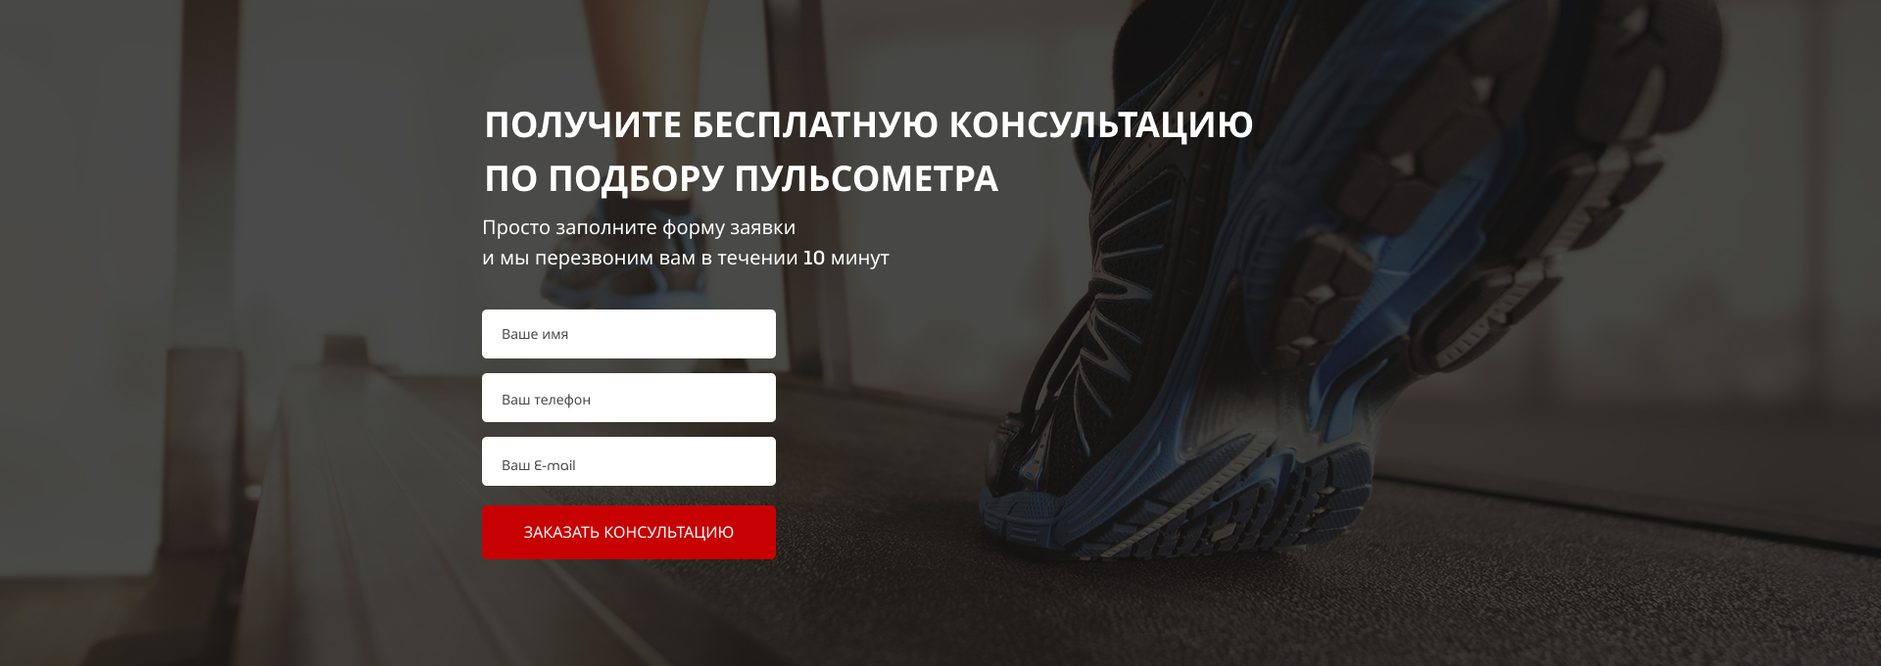
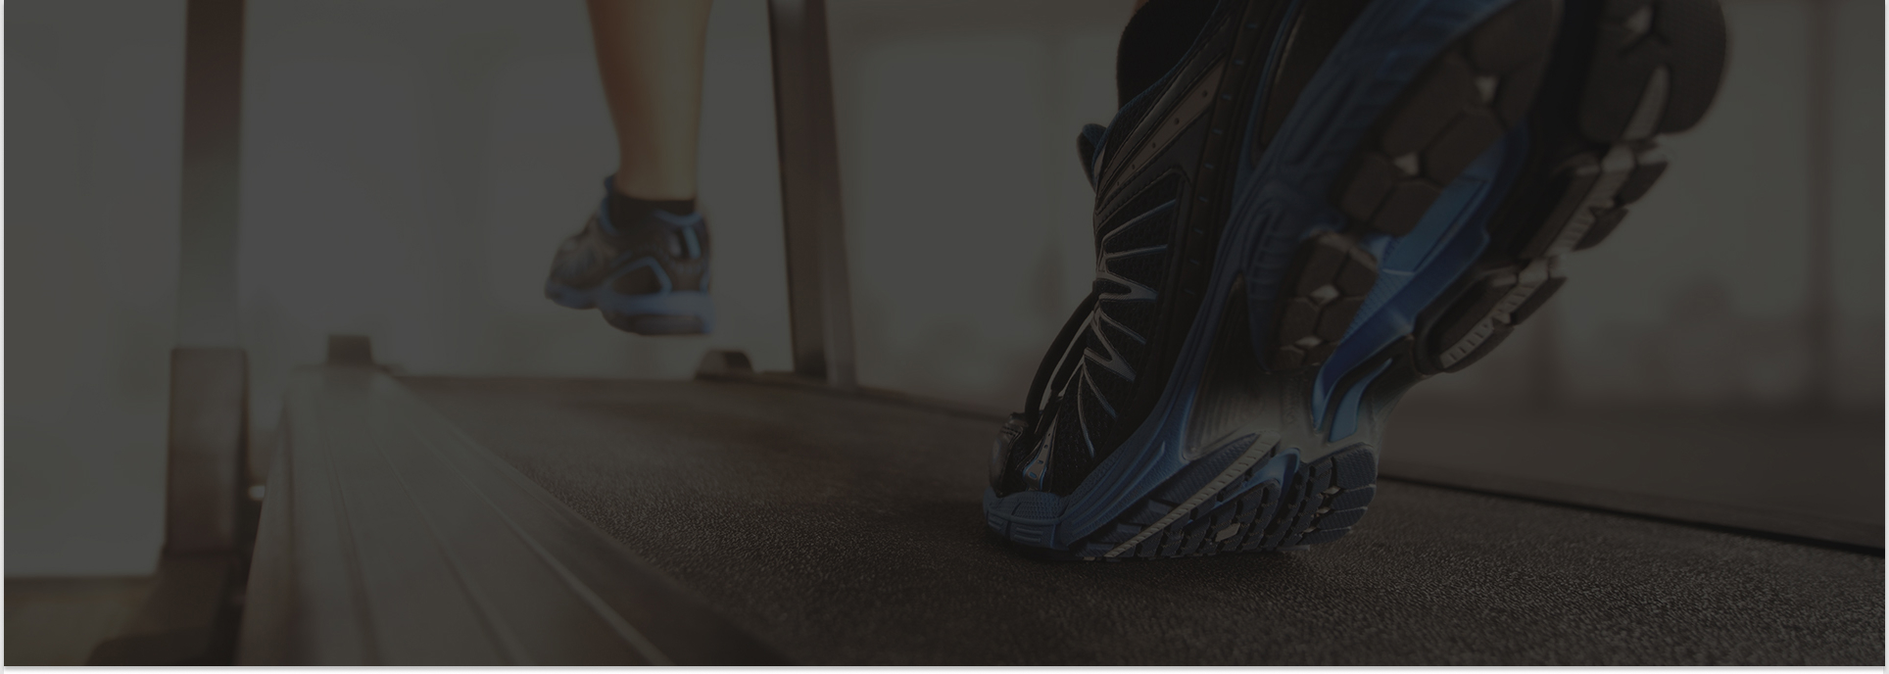
add consultation

diff --git a/src/css/style.min.css b/src/css/style.min.css
@@ -1,1 +1,1 @@
-*{font-family:"Museo Sans Cyrl",sans-serif}.container{max-width:950px;margin:0 auto}@media(max-width: 991px){.container{max-width:750px;margin:0 auto}}.promo{min-height:650px;padding:21px 0 93px 0;background:url(../img/main.jpg) center center/cover no-repeat}.promo__wrapper{display:flex;flex-direction:column;align-items:flex-end;margin-right:10px;margin-top:97px}.promo__header{color:#fff;text-align:right;font-size:42px;font-style:normal;font-weight:700;line-height:42px;text-transform:uppercase}.promo__subheader{padding-top:17px;color:#fff;text-align:right;font-size:24px;font-style:normal;font-weight:500;line-height:24px;text-transform:uppercase}.promo__icons{display:flex;width:424px;margin-top:60px;align-items:center;justify-content:space-between}.promo__icon{width:106px;text-align:center;color:#fff;font-size:14px;font-weight:500}.promo__icon img{display:block;margin:0 auto;margin-bottom:20px}.promo__link{margin-top:18px;color:#fff;font-size:16px;font-weight:500}.promo__link a{color:#fff;text-decoration-line:underline;text-transform:uppercase}@media(max-width: 991px){.promo{min-height:500px;padding:21px 0 63px 0}.promo__wrapper{margin-top:50px}.promo__header{font-size:30px;line-height:30px}.promo__subheader{padding-top:12px;font-size:18px;line-height:18px}.promo__icons{margin-top:40px}}@media(max-width: 767px){.promo{min-height:400px;padding:15px 0 23px 0}.promo__wrapper{margin-top:20px}.promo__header{font-size:30px;line-height:30px}.promo__subheader{padding-top:12px;font-size:18px;line-height:18px}.promo__icons{margin-top:20px;width:350px}.promo__icon img{margin-bottom:10px}}@media(max-width: 575px){.promo{min-height:300px;padding:15px 0 15px 0}.promo__wrapper{margin-top:30px}.promo__header{font-size:20px;line-height:20px;text-align:center}.promo__subheader{padding-top:12px;font-size:14px;line-height:14px}.promo__icons{display:none}.promo__link{margin-top:14px;font-size:14px}}.header{display:flex;justify-content:space-between;align-items:center}.header__logo{width:250px}.header__logo img{width:100%}.header__official{color:#fff;text-align:center;font-family:MuseoModerno;font-size:12px;font-weight:500;line-height:12px;text-align:center}.header__official span{padding-top:8px;display:block;font-size:18px}.header__phone{display:block;color:#fff;font-size:18px;font-style:normal;font-weight:700;line-height:18px}.header__phone:hover{color:#fff;text-decoration:none}.header__contacts{display:flex;flex-direction:column;align-items:flex-end}@media(max-width: 767px){.header{justify-content:space-around}.header__logo{width:150px}.header__official span{padding-top:6px;font-size:16px}.header__phone{font-size:14px;line-height:14px}}@media(max-width: 575px){.header{flex-wrap:wrap}.header__logo img{width:100%}.header__official{display:none}.header__phone{padding-top:10px;font-size:16px;line-height:16px}}.button{width:150px;height:30px;background-color:#c70101;border-radius:5px;color:#fff;text-align:center;font-size:12px;font-style:normal;font-weight:500;line-height:normal;text-transform:uppercase;border:none;margin-top:5px}.button_main{width:300px;height:50px;font-size:16px;margin-top:68px}@media(max-width: 767px){.button{width:120px;height:30px;font-size:10px}.button_main{width:200px;height:40px;font-size:12px;margin-top:30px}}@media(max-width: 575px){.button_main{margin-top:30px}}.title{color:#0d0d0d;text-align:center;font-size:30px;font-weight:700;line-height:30px}@media(max-width: 767px){.title{font-size:20px;line-height:20px}}.advantages{padding:70px 0 82px 0;background-color:#f6f6f6}.advantages__wrapper{margin-top:60px;display:-webkit-box;display:-ms-flexbox;display:flex;-webkit-box-pack:justify;-ms-flex-pack:justify;justify-content:space-between}.advantages__item{width:273px;text-align:center}.advantages__item img{width:70px}.advantages__subheader{padding-top:30px;color:#0d0d0d;font-size:18px;font-weight:700}.advantages__text{padding-top:20px;color:#0d0d0d;text-align:center;font-size:14px;font-weight:300;line-height:18px}.advantages__text span{color:red;font-size:14px;font-weight:300;line-height:18px;text-decoration-line:underline}@media(max-width: 767px){.advantages{padding:30px 0 30px 0}.advantages__wrapper{margin-top:30px;-ms-flex-pack:distribute;justify-content:space-around}.advantages__item{width:160px;text-align:center}.advantages__item img{width:60px}.advantages__subheader{padding-top:20px;font-size:14px}.advantages__text{padding-top:20px;font-size:14px;line-height:14px}.advantages__text span{font-size:14px;line-height:14px}}@media(max-width: 575px){.advantages__wrapper{margin-top:20px;display:-webkit-box;display:-ms-flexbox;display:flex;-webkit-box-orient:vertical;-webkit-box-direction:normal;-ms-flex-direction:column;flex-direction:column;-webkit-box-align:center;-ms-flex-align:center;align-items:center}.advantages__item{width:273px;text-align:center}.advantages__item img{width:70px}}.button{width:150px;height:30px;background-color:#c70101;border-radius:5px;color:#fff;text-align:center;font-size:12px;font-style:normal;font-weight:500;line-height:normal;text-transform:uppercase;border:none;margin-top:5px}.button_main{width:300px;height:50px;font-size:16px;margin-top:68px}@media(max-width: 767px){.button{width:120px;height:30px;font-size:10px}.button_main{width:200px;height:40px;font-size:12px;margin-top:30px}}@media(max-width: 575px){.button_main{margin-top:30px}}.header{display:-webkit-box;display:-ms-flexbox;display:flex;-webkit-box-pack:justify;-ms-flex-pack:justify;justify-content:space-between;-webkit-box-align:center;-ms-flex-align:center;align-items:center}.header__logo{width:250px}.header__logo img{width:100%}.header__official{color:#fff;text-align:center;font-family:MuseoModerno;font-size:12px;font-weight:500;line-height:12px;text-align:center}.header__official span{padding-top:8px;display:block;font-size:18px}.header__phone{display:block;color:#fff;font-size:18px;font-style:normal;font-weight:700;line-height:18px}.header__phone:hover{color:#fff;text-decoration:none}.header__contacts{display:-webkit-box;display:-ms-flexbox;display:flex;-webkit-box-orient:vertical;-webkit-box-direction:normal;-ms-flex-direction:column;flex-direction:column;-webkit-box-align:end;-ms-flex-align:end;align-items:flex-end}@media(max-width: 767px){.header{-ms-flex-pack:distribute;justify-content:space-around}.header__logo{width:150px}.header__official span{padding-top:6px;font-size:16px}.header__phone{font-size:14px;line-height:14px}}@media(max-width: 575px){.header{-ms-flex-wrap:wrap;flex-wrap:wrap}.header__logo img{width:100%}.header__official{display:none}.header__phone{padding-top:10px;font-size:16px;line-height:16px}}.promo{min-height:650px;padding:21px 0 93px 0;background:url(../img/main.jpg) center center/cover no-repeat}.promo__wrapper{display:-webkit-box;display:-ms-flexbox;display:flex;-webkit-box-orient:vertical;-webkit-box-direction:normal;-ms-flex-direction:column;flex-direction:column;-webkit-box-align:end;-ms-flex-align:end;align-items:flex-end;margin-right:10px;margin-top:97px}.promo__header{color:#fff;text-align:right;font-size:42px;font-style:normal;font-weight:700;line-height:42px;text-transform:uppercase}.promo__subheader{padding-top:17px;color:#fff;text-align:right;font-size:24px;font-style:normal;font-weight:500;line-height:24px;text-transform:uppercase}.promo__icons{display:-webkit-box;display:-ms-flexbox;display:flex;width:424px;margin-top:60px;-webkit-box-align:center;-ms-flex-align:center;align-items:center;-webkit-box-pack:justify;-ms-flex-pack:justify;justify-content:space-between}.promo__icon{width:106px;text-align:center;color:#fff;font-size:14px;font-weight:500}.promo__icon img{display:block;margin:0 auto;margin-bottom:20px}.promo__link{margin-top:18px;color:#fff;font-size:16px;font-weight:500}.promo__link a{color:#fff;text-decoration-line:underline;text-transform:uppercase}@media(max-width: 991px){.promo{min-height:500px;padding:21px 0 63px 0}.promo__wrapper{margin-top:50px}.promo__header{font-size:30px;line-height:30px}.promo__subheader{padding-top:12px;font-size:18px;line-height:18px}.promo__icons{margin-top:40px}}@media(max-width: 767px){.promo{min-height:400px;padding:15px 0 23px 0}.promo__wrapper{margin-top:20px}.promo__header{font-size:30px;line-height:30px}.promo__subheader{padding-top:12px;font-size:18px;line-height:18px}.promo__icons{margin-top:20px;width:350px}.promo__icon img{margin-bottom:10px}}@media(max-width: 575px){.promo{min-height:300px;padding:15px 0 15px 0}.promo__wrapper{margin-top:30px}.promo__header{font-size:20px;line-height:20px;text-align:center}.promo__subheader{padding-top:12px;font-size:14px;line-height:14px}.promo__icons{display:none}.promo__link{margin-top:14px;font-size:14px}}.title{color:#0d0d0d;text-align:center;font-size:30px;font-weight:700;line-height:30px}@media(max-width: 767px){.title{font-size:20px;line-height:20px}}
+*{font-family:"Museo Sans Cyrl",sans-serif}.container{max-width:950px;margin:0 auto}@media(max-width: 991px){.container{max-width:750px;margin:0 auto}}.promo{min-height:650px;padding:21px 0 93px 0;background:url(../img/main.jpg) center center/cover no-repeat}.promo__wrapper{display:flex;flex-direction:column;align-items:flex-end;margin-right:10px;margin-top:97px}.promo__header{color:#fff;text-align:right;font-size:42px;font-style:normal;font-weight:700;line-height:42px;text-transform:uppercase}.promo__subheader{padding-top:17px;color:#fff;text-align:right;font-size:24px;font-style:normal;font-weight:500;line-height:24px;text-transform:uppercase}.promo__icons{display:flex;width:424px;margin-top:60px;align-items:center;justify-content:space-between}.promo__icon{width:106px;text-align:center;color:#fff;font-size:14px;font-weight:500}.promo__icon img{display:block;margin:0 auto;margin-bottom:20px}.promo__link{margin-top:18px;color:#fff;font-size:16px;font-weight:500}.promo__link a{color:#fff;text-decoration-line:underline;text-transform:uppercase}@media(max-width: 991px){.promo{min-height:500px;padding:21px 0 63px 0}.promo__wrapper{margin-top:50px}.promo__header{font-size:30px;line-height:30px}.promo__subheader{padding-top:12px;font-size:18px;line-height:18px}.promo__icons{margin-top:40px}}@media(max-width: 767px){.promo{min-height:400px;padding:15px 0 23px 0}.promo__wrapper{margin-top:20px}.promo__header{font-size:30px;line-height:30px}.promo__subheader{padding-top:12px;font-size:18px;line-height:18px}.promo__icons{margin-top:20px;width:350px}.promo__icon img{margin-bottom:10px}}@media(max-width: 575px){.promo{min-height:300px;padding:15px 0 15px 0}.promo__wrapper{margin-top:30px}.promo__header{font-size:20px;line-height:20px;text-align:center}.promo__subheader{padding-top:12px;font-size:14px;line-height:14px}.promo__icons{display:none}.promo__link{margin-top:14px;font-size:14px}}.header{display:flex;justify-content:space-between;align-items:center}.header__logo{width:250px}.header__logo img{width:100%}.header__official{color:#fff;text-align:center;font-family:MuseoModerno;font-size:12px;font-weight:500;line-height:12px;text-align:center}.header__official span{padding-top:8px;display:block;font-size:18px}.header__phone{display:block;color:#fff;font-size:18px;font-style:normal;font-weight:700;line-height:18px}.header__phone:hover{color:#fff;text-decoration:none}.header__contacts{display:flex;flex-direction:column;align-items:flex-end}@media(max-width: 767px){.header{justify-content:space-around}.header__logo{width:150px}.header__official span{padding-top:6px;font-size:16px}.header__phone{font-size:14px;line-height:14px}}@media(max-width: 575px){.header{flex-wrap:wrap}.header__logo img{width:100%}.header__official{display:none}.header__phone{padding-top:10px;font-size:16px;line-height:16px}}.button{width:150px;height:30px;background-color:#c70101;border-radius:5px;color:#fff;text-align:center;font-size:12px;font-style:normal;font-weight:500;line-height:normal;text-transform:uppercase;border:none;margin-top:5px}.button_main{width:300px;height:50px;font-size:16px;margin-top:68px}.button_consultation{font-size:16px;text-transform:uppercase;margin-top:0;width:100%;height:55px}@media(max-width: 767px){.button{width:120px;height:30px;font-size:10px}.button_main{width:200px;height:40px;font-size:12px;margin-top:30px}.button_consultation{font-size:14px;height:40px;width:100%}}@media(max-width: 575px){.button_main{margin-top:30px}.button_consultation{font-size:14px;height:30px;width:100%}}.title{color:#0d0d0d;text-align:center;font-size:30px;font-weight:700;line-height:30px;text-transform:uppercase}.title_left{color:#fff;text-align:left;font-size:36px;line-height:54px}@media(max-width: 767px){.title{font-size:20px;line-height:20px}.title_left{color:#fff;text-align:left;font-size:20px;line-height:26px}}@media(max-width: 575px){.title_left{color:#fff;text-align:left;font-size:16px;line-height:18px}}.consultation{min-height:680px;padding:100px 0 92px 0;background:url("../../img/consultation.jpg") center center/cover no-repeat}.consultation__descr{color:#fff;font-size:20px;font-weight:500;line-height:30px;text-align:left;padding-top:8px}@media(max-width: 1200px){.consultation{min-height:550px;padding:60px 0 45px 0}}@media(max-width: 767px){.consultation{min-height:400px;padding:30px 0 30px 10px}.consultation__descr{font-size:16px;line-height:24px;padding-top:4px}}@media(max-width: 575px){.consultation{min-height:340px;padding:25px 20px 15px 20px}.consultation__descr{font-size:14px;line-height:16px;padding-top:4px}}.feed-form{margin-top:36px;display:flex;flex-direction:column;width:300px}.feed-form input{height:54px;border-radius:5px;background-color:#fff;color:#4b4b4b;font-size:14px;font-weight:400;line-height:66px;margin-bottom:15px;border:none;padding-left:20px}.feed-form input:nth-child(3){margin-bottom:20px}@media(max-width: 767px){.feed-form{margin-top:20px}.feed-form input{height:40px}}@media(max-width: 575px){.feed-form{width:280px}.feed-form input{height:30px}}.advantages{padding:70px 0 82px 0;background-color:#f6f6f6}.advantages__wrapper{margin-top:60px;display:-webkit-box;display:-ms-flexbox;display:flex;-webkit-box-pack:justify;-ms-flex-pack:justify;justify-content:space-between}.advantages__item{width:273px;text-align:center}.advantages__item img{width:70px}.advantages__subheader{padding-top:30px;color:#0d0d0d;font-size:18px;font-weight:700}.advantages__text{padding-top:20px;color:#0d0d0d;text-align:center;font-size:14px;font-weight:300;line-height:18px}.advantages__text span{color:red;font-size:14px;font-weight:300;line-height:18px;text-decoration-line:underline}@media(max-width: 767px){.advantages{padding:30px 0 30px 0}.advantages__wrapper{margin-top:30px;-ms-flex-pack:distribute;justify-content:space-around}.advantages__item{width:160px;text-align:center}.advantages__item img{width:60px}.advantages__subheader{padding-top:20px;font-size:14px}.advantages__text{padding-top:20px;font-size:14px;line-height:14px}.advantages__text span{font-size:14px;line-height:14px}}@media(max-width: 575px){.advantages__wrapper{margin-top:20px;display:-webkit-box;display:-ms-flexbox;display:flex;-webkit-box-orient:vertical;-webkit-box-direction:normal;-ms-flex-direction:column;flex-direction:column;-webkit-box-align:center;-ms-flex-align:center;align-items:center}.advantages__item{width:273px;text-align:center}.advantages__item img{width:50px}}.button{width:150px;height:30px;background-color:#c70101;border-radius:5px;color:#fff;text-align:center;font-size:12px;font-style:normal;font-weight:500;line-height:normal;text-transform:uppercase;border:none;margin-top:5px}.button_main{width:300px;height:50px;font-size:16px;margin-top:68px}.button_consultation{font-size:16px;text-transform:uppercase;margin-top:0;width:100%;height:55px}@media(max-width: 767px){.button{width:120px;height:30px;font-size:10px}.button_main{width:200px;height:40px;font-size:12px;margin-top:30px}.button_consultation{font-size:14px;height:40px;width:100%}}@media(max-width: 575px){.button_main{margin-top:30px}.button_consultation{font-size:14px;height:30px;width:100%}}.consultation{min-height:680px;padding:100px 0 92px 0;background:url("../../img/consultation.jpg") center center/cover no-repeat}.consultation__descr{color:#fff;font-size:20px;font-weight:500;line-height:30px;text-align:left;padding-top:8px}@media(max-width: 1200px){.consultation{min-height:550px;padding:60px 0 45px 0}}@media(max-width: 767px){.consultation{min-height:400px;padding:30px 0 30px 10px}.consultation__descr{font-size:16px;line-height:24px;padding-top:4px}}@media(max-width: 575px){.consultation{min-height:340px;padding:25px 20px 15px 20px}.consultation__descr{font-size:14px;line-height:16px;padding-top:4px}}.feed-form{margin-top:36px;display:-webkit-box;display:-ms-flexbox;display:flex;-webkit-box-orient:vertical;-webkit-box-direction:normal;-ms-flex-direction:column;flex-direction:column;width:300px}.feed-form input{height:54px;border-radius:5px;background-color:#fff;color:#4b4b4b;font-size:14px;font-weight:400;line-height:66px;margin-bottom:15px;border:none;padding-left:20px}.feed-form input:nth-child(3){margin-bottom:20px}@media(max-width: 767px){.feed-form{margin-top:20px}.feed-form input{height:40px}}@media(max-width: 575px){.feed-form{width:280px}.feed-form input{height:30px}}.header{display:-webkit-box;display:-ms-flexbox;display:flex;-webkit-box-pack:justify;-ms-flex-pack:justify;justify-content:space-between;-webkit-box-align:center;-ms-flex-align:center;align-items:center}.header__logo{width:250px}.header__logo img{width:100%}.header__official{color:#fff;text-align:center;font-family:MuseoModerno;font-size:12px;font-weight:500;line-height:12px;text-align:center}.header__official span{padding-top:8px;display:block;font-size:18px}.header__phone{display:block;color:#fff;font-size:18px;font-style:normal;font-weight:700;line-height:18px}.header__phone:hover{color:#fff;text-decoration:none}.header__contacts{display:-webkit-box;display:-ms-flexbox;display:flex;-webkit-box-orient:vertical;-webkit-box-direction:normal;-ms-flex-direction:column;flex-direction:column;-webkit-box-align:end;-ms-flex-align:end;align-items:flex-end}@media(max-width: 767px){.header{-ms-flex-pack:distribute;justify-content:space-around}.header__logo{width:150px}.header__official span{padding-top:6px;font-size:16px}.header__phone{font-size:14px;line-height:14px}}@media(max-width: 575px){.header{-ms-flex-wrap:wrap;flex-wrap:wrap}.header__logo img{width:100%}.header__official{display:none}.header__phone{padding-top:10px;font-size:16px;line-height:16px}}.promo{min-height:650px;padding:21px 0 93px 0;background:url(../img/main.jpg) center center/cover no-repeat}.promo__wrapper{display:-webkit-box;display:-ms-flexbox;display:flex;-webkit-box-orient:vertical;-webkit-box-direction:normal;-ms-flex-direction:column;flex-direction:column;-webkit-box-align:end;-ms-flex-align:end;align-items:flex-end;margin-right:10px;margin-top:97px}.promo__header{color:#fff;text-align:right;font-size:42px;font-style:normal;font-weight:700;line-height:42px;text-transform:uppercase}.promo__subheader{padding-top:17px;color:#fff;text-align:right;font-size:24px;font-style:normal;font-weight:500;line-height:24px;text-transform:uppercase}.promo__icons{display:-webkit-box;display:-ms-flexbox;display:flex;width:424px;margin-top:60px;-webkit-box-align:center;-ms-flex-align:center;align-items:center;-webkit-box-pack:justify;-ms-flex-pack:justify;justify-content:space-between}.promo__icon{width:106px;text-align:center;color:#fff;font-size:14px;font-weight:500}.promo__icon img{display:block;margin:0 auto;margin-bottom:20px}.promo__link{margin-top:18px;color:#fff;font-size:16px;font-weight:500}.promo__link a{color:#fff;text-decoration-line:underline;text-transform:uppercase}@media(max-width: 991px){.promo{min-height:500px;padding:21px 0 63px 0}.promo__wrapper{margin-top:50px}.promo__header{font-size:30px;line-height:30px}.promo__subheader{padding-top:12px;font-size:18px;line-height:18px}.promo__icons{margin-top:40px}}@media(max-width: 767px){.promo{min-height:400px;padding:15px 0 23px 0}.promo__wrapper{margin-top:20px}.promo__header{font-size:30px;line-height:30px}.promo__subheader{padding-top:12px;font-size:18px;line-height:18px}.promo__icons{margin-top:20px;width:350px}.promo__icon img{margin-bottom:10px}}@media(max-width: 575px){.promo{min-height:300px;padding:15px 0 15px 0}.promo__wrapper{margin-top:30px}.promo__header{font-size:20px;line-height:20px;text-align:center}.promo__subheader{padding-top:12px;font-size:14px;line-height:14px}.promo__icons{display:none}.promo__link{margin-top:14px;font-size:14px}}.title{color:#0d0d0d;text-align:center;font-size:30px;font-weight:700;line-height:30px;text-transform:uppercase}.title_left{color:#fff;text-align:left;font-size:36px;line-height:54px}@media(max-width: 767px){.title{font-size:20px;line-height:20px}.title_left{color:#fff;text-align:left;font-size:20px;line-height:26px}}@media(max-width: 575px){.title_left{color:#fff;text-align:left;font-size:16px;line-height:18px}}

diff --git a/src/index.html b/src/index.html
@@ -73,6 +73,24 @@
             </div>
         </div>
     </div>
+    <div class="consultation">
+        <div class="container">
+            <h2 class="title title_left">
+                Получите бесплатную консультацию<br> по подбору пульсометра 
+            </h2>
+            <div class="consultation__descr">
+                Просто заполните форму заявки<br> и мы перезвоним вам в течении 10 минут
+            </div>
+            <form class="feed-form" action="#">
+                <input name="name" required placeholder="Ваше имя" type="text">
+                <input name="phone" required placeholder="Ваш телефон" type="number">
+                <input name="email" placeholder="Ваш E-mail" type="email">
+
+                <!-- <input type="submit" value="заказать кОНСУЛЬТАЦИЮ" name="button" id=""> -->
+                <button class="button button_consultation">заказать кОНСУЛЬТАЦИЮ</button>
+            </form>
+        </div>
+    </div>
     <script src="js/main.min.js"></script>
 </body>
 </html>

diff --git a/src/sass/blocks/_consultation.scss b/src/sass/blocks/_consultation.scss
@@ -1,0 +1,43 @@
+.consultation {
+    min-height: 680px;
+    padding: 100px 0 92px 0;
+    background: url('../../img/consultation.jpg') center (center/cover) no-repeat;
+    &__descr {
+        color: #FFF;
+        font-size: 20px;
+        font-weight: 500;
+        line-height: 30px; /* 150% */
+        text-align: left;
+        padding-top: 8px;
+    }
+}
+@media (max-width: 1200px){
+    .consultation {
+        min-height: 550px;
+        padding: 60px 0 45px 0;
+    }
+}
+@media (max-width: 767px){
+    .consultation {
+        min-height: 400px;
+        padding: 30px 0 30px 10px;
+        &__descr {
+            font-size: 16px;
+            line-height: 24px; /* 150% */
+            padding-top: 4px;
+        }
+    }
+}
+
+@media (max-width: 575px){
+    .consultation {
+        min-height: 340px;
+        padding: 25px 20px 15px 20px;
+        &__descr {
+            font-size: 14px;
+            line-height: 16px; /* 150% */
+            padding-top: 4px;
+        }
+    }
+    
+}

diff --git a/src/sass/blocks/_forms.scss b/src/sass/blocks/_forms.scss
@@ -1,0 +1,38 @@
+.feed-form {
+    margin-top: 36px;
+    display: flex;
+    flex-direction: column;
+    width: 300px;
+    input {
+        height: 54px;
+        border-radius: 5px;
+        background-color: #fff;
+        color: #4B4B4B;
+        font-size: 14px;
+        font-weight: 400;
+        line-height: 66px;
+        margin-bottom: 15px;
+        border: none;
+        padding-left: 20px;
+        &:nth-child(3) {
+            margin-bottom: 20px;
+        }
+    }
+}
+@media (max-width: 767px) {
+    .feed-form {
+        margin-top: 20px;
+        input {
+            height: 40px;
+        }
+    }
+}
+
+@media (max-width: 575px){
+    .feed-form {
+        width: 280px;
+        input {
+            height: 30px;
+        }
+    }
+}

diff --git a/src/sass/blocks/_titles.scss b/src/sass/blocks/_titles.scss
@@ -4,10 +4,33 @@
     font-size: 30px;
     font-weight: 700;
     line-height: 30px; /* 100% */
+    text-transform: uppercase;
+    &_left {
+    color: #FFF;
+    text-align: left;
+    font-size: 36px;
+    line-height: 54px; /* 150% */
+    }
 }
 @media (max-width: 767px) {
     .title {
         font-size: 20px;
         line-height: 20px; /* 100% */
+        &_left {
+            color: #FFF;
+            text-align: left;
+            font-size: 20px;
+            line-height: 26px; /* 150% */
+        }
+    }
+}
+@media (max-width: 575px){
+    .title {
+        &_left {
+            color: #FFF;
+            text-align: left;
+            font-size: 16px;
+            line-height: 18px; /* 150% */
+        }
     }
 }

diff --git a/src/sass/blocks/_buttons.scss b/src/sass/blocks/_buttons.scss
@@ -18,6 +18,13 @@
         font-size: 16px;
         margin-top: 68px;
     }
+    &_consultation {
+        font-size: 16px;
+        text-transform: uppercase;
+        margin-top: 0;
+        width: 100%;
+        height: 55px;
+    }
 }
 
 @media (max-width: 767px) {
@@ -31,12 +38,22 @@
             font-size: 12px;
             margin-top: 30px;
         }
+        &_consultation {
+            font-size: 14px;
+            height: 40px;
+            width: 100%;
+        }
     }
 }
 @media (max-width: 575px){
     .button { 
         &_main {
             margin-top: 30px;
+        }
+        &_consultation {
+            font-size: 14px;
+            height: 30px;
+            width: 100%;
         }
     }
 }

diff --git a/src/sass/blocks/_advantsges.scss b/src/sass/blocks/_advantsges.scss
@@ -78,7 +78,7 @@
             width: 273px;
             text-align: center;
             img{
-                width: 70px;
+                width: 50px;
             }
         }
     }

diff --git a/src/sass/style.scss b/src/sass/style.scss
@@ -19,3 +19,5 @@
 @import 'blocks/header';
 @import 'blocks/buttons';
 @import 'blocks/titles';
+@import 'blocks/consultation';
+@import 'blocks/forms';
